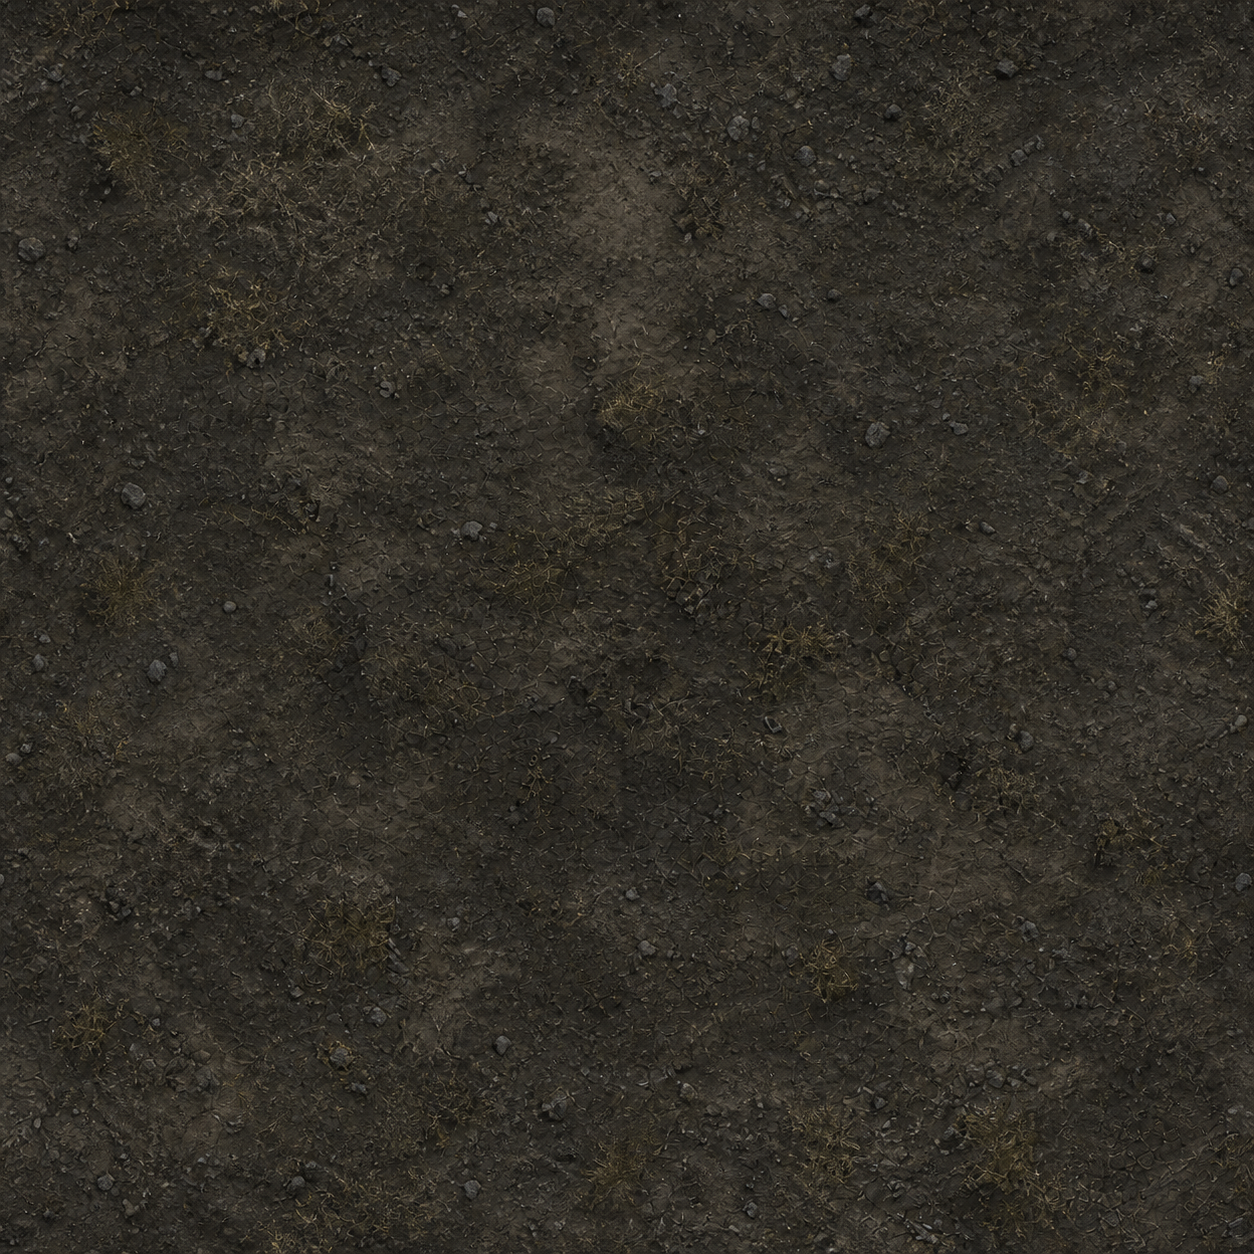
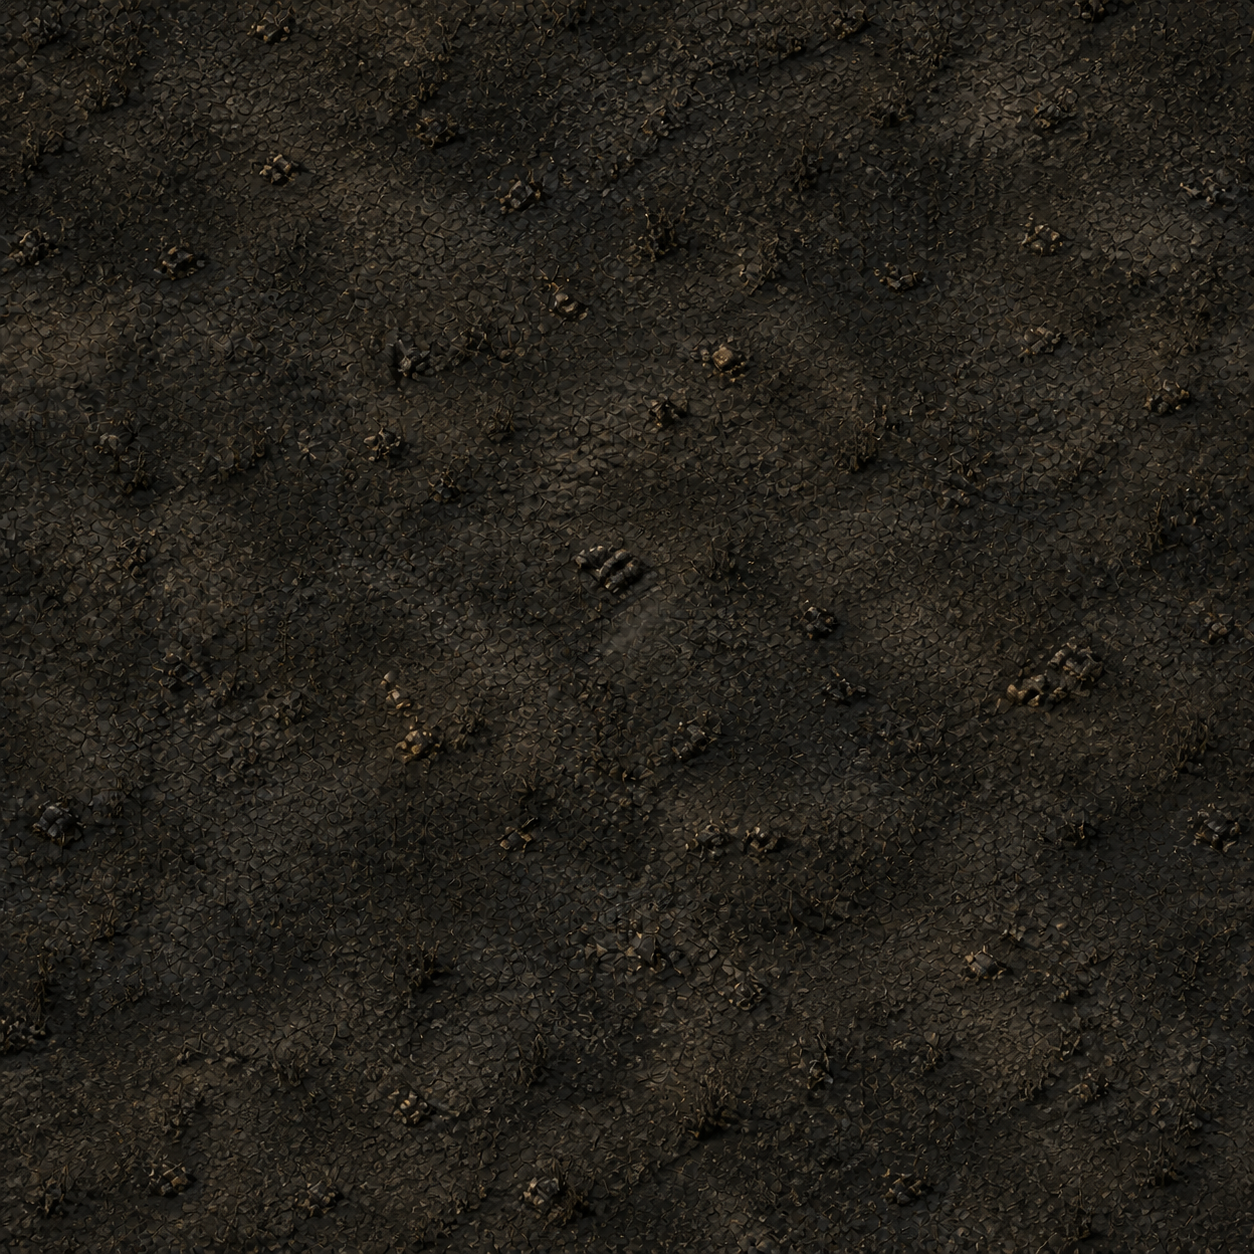
Align discrete map art with references

diff --git a/game/CommercialMapView.cs b/game/CommercialMapView.cs
@@ -177,6 +177,25 @@ internal sealed partial class CommercialMapView : Control
     public int IndividualArtAssetCount =>
         IndividualTileAssetCount + IndividualObjectAssetCount;
 
+    public string? CurrentDraftSpriteClassId
+    {
+        get
+        {
+            if (_presentation?.Snapshot.NodeDraft is NodeDraftSnapshot nodeDraft &&
+                DraftNodeSprite(nodeDraft.NodeClassId).Texture is not null)
+            {
+                return nodeDraft.NodeClassId;
+            }
+            if (_presentation?.Snapshot.LineDraft is LineDraftSnapshot lineDraft &&
+                lineDraft.IntermediatePoints.Count > 0 &&
+                DraftPoleSprite(lineDraft.PoleClassId).Texture is not null)
+            {
+                return lineDraft.PoleClassId;
+            }
+            return null;
+        }
+    }
+
     private int IndividualTileAssetCount =>
         new Texture2D?[]
         {
@@ -628,7 +647,7 @@ internal sealed partial class CommercialMapView : Control
                         GroundAsphaltTile,
                         cell.Grow(0.65f),
                         false,
-                        new Color(0.66f, 0.71f, 0.66f, 0.94f));
+                        new Color(0.94f, 0.92f, 0.86f, 1f));
                 }
                 Texture2D? variant = variants[((column * 7) + (row * 11)) % variants.Length];
                 if (variant is not null)
@@ -637,11 +656,11 @@ internal sealed partial class CommercialMapView : Control
                         variant,
                         cell.Grow(0.8f),
                         false,
-                        new Color(0.66f, 0.70f, 0.64f, 0.18f));
+                        new Color(0.88f, 0.84f, 0.74f, 0.34f));
                 }
             }
         }
-        DrawRect(mapRect, new Color(Land, 0.24f));
+        DrawRect(mapRect, new Color(Land, 0.07f));
         DrawRect(mapRect, Color.FromHtml("9a7b4f"), false, 2f);
     }
 
@@ -736,8 +755,8 @@ internal sealed partial class CommercialMapView : Control
                             Math.Max(1, texture.GetHeight() - 1)))
                     .ToArray();
                 Color textureModulate = area.Kind == TerrainKind.Water
-                    ? new Color(0.64f, 0.84f, 0.88f, 0.96f)
-                    : new Color(0.88f, 0.88f, 0.82f, 0.96f);
+                    ? new Color(0.82f, 0.92f, 0.94f, 0.98f)
+                    : new Color(1f, 0.96f, 0.88f, 0.98f);
                 if (area.Kind == TerrainKind.Building &&
                     area.Polygon.All(point =>
                         (point.XUnit == minX || point.XUnit == maxX) &&
@@ -970,6 +989,8 @@ internal sealed partial class CommercialMapView : Control
         foreach (CoreMapPoint point in draft.IntermediatePoints)
         {
             DrawFootprint(point, poleClass.FootprintRadiusUnit, Planned, 0.12f);
+            (Texture2D? texture, float maxSide) = DraftPoleSprite(draft.PoleClassId);
+            DrawDraftSprite(texture, point, maxSide);
             DrawCircle(ToCanvas(point), 4.5f, Planned);
         }
     }
@@ -1077,29 +1098,64 @@ internal sealed partial class CommercialMapView : Control
     {
         if (node.AuthoredFoundation)
         {
-            return (BridgeFoundationSprite, 64f);
+            return (BridgeFoundationSprite, 82f);
         }
         return nodeClass.Kind switch
         {
-            SpatialNodeKind.SourceTerminal => (SourcePlantSprite, 72f),
-            SpatialNodeKind.Substation => (SubstationSprite, 70f),
+            SpatialNodeKind.SourceTerminal => (SourcePlantSprite, 94f),
+            SpatialNodeKind.Substation => (SubstationSprite, 88f),
             SpatialNodeKind.Pole when node.ClassId == "STANDARD_POLE" =>
-                (StandardPoleSprite, 52f),
-            SpatialNodeKind.Pole => (ReinforcedPoleSprite, 58f),
+                (StandardPoleSprite, 70f),
+            SpatialNodeKind.Pole => (ReinforcedPoleSprite, 78f),
             SpatialNodeKind.DedicatedLoadTerminal when
                 node.NodeId == "EAST_RESIDENTIAL_TERMINAL" =>
-                (ResidentialFacilitySprite, 76f),
+                (ResidentialFacilitySprite, 96f),
             SpatialNodeKind.DedicatedLoadTerminal when
                 node.NodeId == "HOSPITAL_TERMINAL" =>
-                (HospitalFacilitySprite, 82f),
+                (HospitalFacilitySprite, 104f),
             SpatialNodeKind.DedicatedLoadTerminal when
                 node.NodeId == "WATER_TERMINAL" =>
-                (WaterFacilitySprite, 82f),
+                (WaterFacilitySprite, 104f),
             SpatialNodeKind.DedicatedLoadTerminal when
                 node.NodeId == "INDUSTRY_TERMINAL" =>
-                (IndustryFacilitySprite, 80f),
+                (IndustryFacilitySprite, 102f),
             _ => (null, 24f),
         };
+    }
+
+    private (Texture2D? Texture, float MaxSide) DraftPoleSprite(string poleClassId) =>
+        poleClassId switch
+        {
+            "STANDARD_POLE" => (StandardPoleSprite, 70f),
+            "REINFORCED_POLE" => (ReinforcedPoleSprite, 78f),
+            _ => (null, 24f),
+        };
+
+    private (Texture2D? Texture, float MaxSide) DraftNodeSprite(string nodeClassId) =>
+        nodeClassId switch
+        {
+            "SMALL_SUBSTATION" => (SubstationSprite, 88f),
+            _ => (null, 24f),
+        };
+
+    private void DrawDraftSprite(
+        Texture2D? texture,
+        CoreMapPoint point,
+        float maxSide)
+    {
+        if (texture is null)
+        {
+            return;
+        }
+        Vector2 center = ToCanvas(point);
+        Vector2 spriteSize = FitSpriteSize(texture, maxSide * (1f + (ZoomIndex * 0.16f)));
+        float objectRadius = Math.Max(6f, Math.Max(spriteSize.X, spriteSize.Y) * 0.42f);
+        DrawTextureRect(
+            texture,
+            new Rect2(center - (spriteSize / 2f), spriteSize),
+            false,
+            new Color(1f, 0.86f, 0.62f, 0.88f));
+        DrawArc(center, objectRadius, 0f, Mathf.Tau, 32, new Color(Planned, 0.9f), 2f, true);
     }
 
     private static Vector2 FitSpriteSize(Texture2D texture, float maxSide)
@@ -1174,6 +1230,8 @@ internal sealed partial class CommercialMapView : Control
             DrawServiceArea(draft.Position, nodeClass.ServiceRadiusUnit);
         }
         DrawFootprint(draft.Position, nodeClass.FootprintRadiusUnit, Planned, 0.16f);
+        (Texture2D? texture, float maxSide) = DraftNodeSprite(draft.NodeClassId);
+        DrawDraftSprite(texture, draft.Position, maxSide);
         DrawCircle(ToCanvas(draft.Position), 6f, Planned);
     }
 

diff --git a/game/CommercialMain.Smoke.cs b/game/CommercialMain.Smoke.cs
@@ -49,7 +49,8 @@ internal sealed partial class CommercialMain
 
             await BuildCampaignSmokeSubstation(
                 new CoreMapPoint(2200, 750),
-                "표현 확인 변전소");
+                "표현 확인 변전소",
+                Path.Combine(evidenceDirectory, "1920x1080-ui100-substation-draft.png"));
             await BuildCampaignSmokeLine(
                 "WEST_SOURCE",
                 "PLAYER_SUBSTATION_1",
@@ -59,7 +60,8 @@ internal sealed partial class CommercialMain
                     new CoreMapPoint(1545, 450),
                     new CoreMapPoint(1900, 600),
                 ],
-                "표현 확인 간선");
+                "표현 확인 간선",
+                Path.Combine(evidenceDirectory, "1920x1080-ui100-pole-draft.png"));
             await BuildCampaignSmokeLine(
                 "PLAYER_SUBSTATION_1",
                 "EAST_RESIDENTIAL_TERMINAL",
@@ -129,8 +131,9 @@ internal sealed partial class CommercialMain
                 "Save & Quit이 성공한 원자적 저장 뒤에만 제목으로 이동하지 않았습니다.");
             GD.Print(
                 "COMMERCIAL_STAGE_G_PRESENTATION_SMOKE_PASS " +
-                "screens=title-ui100|art-path-ui100|art-path-ui125 " +
-                "visual=discrete-tiles-7|discrete-objects-9|event-timeline " +
+                "screens=title-ui100|substation-draft-ui100|pole-draft-ui100|" +
+                "art-path-ui100|art-path-ui125 " +
+                "visual=discrete-tiles-7|discrete-objects-9|planned-class-sprites|event-timeline " +
                 "input=focus-keyboard reduce-motion=on " +
                 "save-and-quit=atomic resolution=1920x1080 " +
                 $"buildIdentity={CommercialCoreSaveCodec.ComputeSha256(_buildIdentityBytes)}");
@@ -939,7 +942,8 @@ internal sealed partial class CommercialMain
         string startNodeId,
         string endNodeId,
         IReadOnlyList<CoreMapPoint> intermediatePoints,
-        string label)
+        string label,
+        string? draftEvidencePath = null)
     {
         await PressPanelAsync(CommercialPanelAction.StartLine, $"{label} 선로 도구");
         await NextFrame();
@@ -951,6 +955,13 @@ internal sealed partial class CommercialMain
         foreach (CoreMapPoint point in intermediatePoints)
         {
             await ClickMap(point);
+            Require(
+                _map.CurrentDraftSpriteClassId == _snapshot.LineDraft?.PoleClassId,
+                $"{label}의 건설 중 전주가 선택한 node class 스프라이트를 표시하지 않았습니다.");
+        }
+        if (draftEvidencePath is not null)
+        {
+            SaveEvidencePng(draftEvidencePath);
         }
         await SelectAndClickCandidate(end.Position, endNodeId);
         Require(
@@ -962,14 +973,22 @@ internal sealed partial class CommercialMain
         await NextFrame();
     }
 
-    private async Task BuildCampaignSmokeSubstation(CoreMapPoint position, string label)
+    private async Task BuildCampaignSmokeSubstation(
+        CoreMapPoint position,
+        string label,
+        string? draftEvidencePath = null)
     {
         await PressPanelAsync(CommercialPanelAction.PlaceSubstation, $"{label} 도구");
         await NextFrame();
         await ClickMap(position);
         Require(
-            _snapshot.NodeDraft?.Position == position,
+            _snapshot.NodeDraft?.Position == position &&
+            _map.CurrentDraftSpriteClassId == _snapshot.NodeDraft.NodeClassId,
             $"{label} 위치를 계획하지 못했습니다: {_lastError}");
+        if (draftEvidencePath is not null)
+        {
+            SaveEvidencePng(draftEvidencePath);
+        }
         await PressPanelAsync(CommercialPanelAction.Commission, $"{label} 공사 발주");
         await NextFrame();
         await PressPanelAsync(CommercialPanelAction.Commission, $"{label} 공사 완공");

diff --git a/tools/Gridworks.CommercialChecks/Program.cs b/tools/Gridworks.CommercialChecks/Program.cs
@@ -242,6 +242,10 @@ internal sealed class CommercialChecks
                      "WATER_TERMINAL",
                      "INDUSTRY_TERMINAL",
                      "STANDARD_POLE",
+                     "DraftPoleSprite",
+                     "DraftNodeSprite",
+                     "DrawDraftSprite",
+                     "CurrentDraftSpriteClassId",
                      "AuthoredFoundation",
                      "GroundTileWorldUnit = 400",
                  })

diff --git a/game/art/commercial/commercial-map-assets-v1.prompts.md b/game/art/commercial/commercial-map-assets-v1.prompts.md
@@ -4,8 +4,9 @@
 - 생성 도구: OpenAI built-in ImageGen
 - 사용 방식: 새 tile/object 생성 후 object별 background-extraction edit. atlas나 whole-map 합성은 사용하지 않음.
 - style reference: `assets/01-grid-construction.png`, `assets/02-heatwave-outage.png`,
-  `assets/03-route-comparison.png`, `assets/04-plant-siting.png`의 낮은 사선 시점, 낡은 산업 재료,
-  청록 통전색과 황동 작업등만 참고. 원본 이미지는 runtime에 포함하지 않음.
+  `assets/03-route-comparison.png`, `assets/04-plant-siting.png`를 모든 생성 호출에 직접 넣고 낮은 3/4
+  사선 시점, 약 30도 하향 orthographic camera, 흑연·그을린 철·낡은 콘크리트, 촘촘한 산업 디테일,
+  제한된 황동 작업등을 최대한 가깝게 고정했다. 원본 이미지는 runtime에 포함하지 않음.
 - 공통 금지요소: UI, 문구, 숫자, logo, 완성 지도, 전력선, gameplay 상태, 사람, 차량, 흰색/검은색
   matte. object는 실제 transparent alpha, tile은 semantic object와 보이는 격자선을 금지.
 
@@ -19,13 +20,13 @@
 
 | runtime 파일 | SHA-256 |
 |---|---|
[14 lines of base64/hex data omitted]
 
 ## Object prompts
 
@@ -35,20 +36,23 @@
 접속 설비, 일반 목주, 보강 철주, 교량 보호기초, 소형 배전 변전소, 주거 묶음, 의료원, 정수장,
 산업시설이다. background-extraction prompt는 원 오브젝트의 geometry·색·조명·비율은 보존하고 baked
 checkerboard와 모든 배경 픽셀만 제거하도록 고정했다. 정수장은 배경분리가 두 번 실패해 폐기하고 같은
-종류를 transparent-alpha 조건으로 새로 생성했다.
+종류를 transparent-alpha 조건으로 새로 생성했다. reference 정렬 재생성에서도 baked checkerboard를
+그대로 채택하지 않고 각 object를 다시 background-extraction했으며, 정수장과 의료원은 실패 결과를
+폐기하고 RGBA 후보가 나올 때까지 별도 재시도했다.
 
 | runtime 파일 | SHA-256 |
 |---|---|
[18 lines of base64/hex data omitted]
 
 object 최종 검수는 PNG color type RGBA, 네 모서리 alpha 0/1 이하, 완전 투명 pixel 비율 35% 이상을
-요구한다. 실제 결과는 43.3%~81.3%이며 `commercial-map-discrete-art-contract`가 같은 조건과 위 hash,
-scene binding, whole-map plate 부재를 반복 검사한다.
+요구한다. reference 정렬 재생성 9종은 모두 이 조건을 통과했으며
+`commercial-map-discrete-art-contract`가 같은 조건과 위 hash, scene binding, whole-map plate 부재를
+반복 검사한다.

diff --git a/ASSET_MANIFEST.md b/ASSET_MANIFEST.md
@@ -4,8 +4,8 @@
 
 | 자산 | 형태와 출처 | 권리·라이선스 경계 |
 |---|---|---|
-| 청류시 지형 tile 7종 | `game/art/commercial/tiles/`의 지면 4종·강·주거 block·의료원 block PNG. 네 concept은 style reference로만 사용했고 각 파일의 prompt·SHA-256은 [`commercial-map-assets-v1.prompts.md`](game/art/commercial/commercial-map-assets-v1.prompts.md)에 고정 | OpenAI built-in ImageGen의 Gridworks 프로젝트용 생성 출력. 공개 라이선스 없음. 내부 후보에만 포함 |
-| 망 설비·시설 object 9종 | `game/art/commercial/objects/`의 발전 접속 설비·일반/보강 전신주·교량 기초·변전소·주거/의료/정수/산업 transparent PNG. 파일별 prompt·SHA-256과 alpha 검수는 같은 [생성 기록](game/art/commercial/commercial-map-assets-v1.prompts.md)에 고정 | OpenAI built-in ImageGen의 Gridworks 프로젝트용 생성 출력. 공개 라이선스 없음. 내부 후보에만 포함 |
+| 청류시 지형 tile 7종 | `game/art/commercial/tiles/`의 지면 4종·강·주거 block·의료원 block PNG. 네 concept을 모든 생성 호출의 직접 style/camera/material reference로 사용해 낮은 3/4 사선·흑철·황동 산업도시 언어를 맞췄고, 각 파일 prompt·SHA-256은 [`commercial-map-assets-v1.prompts.md`](game/art/commercial/commercial-map-assets-v1.prompts.md)에 고정 | OpenAI built-in ImageGen의 Gridworks 프로젝트용 생성 출력. 공개 라이선스 없음. 내부 후보에만 포함 |
+| 망 설비·시설 object 9종 | `game/art/commercial/objects/`의 발전 접속 설비·일반/보강 격자 철탑·교량 기초·변전소·주거/의료/정수/산업 transparent PNG. 같은 reference angle로 각 object를 별도 생성·background-extraction했고 파일별 prompt·SHA-256과 실제 alpha 검수는 같은 [생성 기록](game/art/commercial/commercial-map-assets-v1.prompts.md)에 고정 | OpenAI built-in ImageGen의 Gridworks 프로젝트용 생성 출력. 공개 라이선스 없음. 내부 후보에만 포함 |
 | 실제 망·상태 pattern·사건 timeline·네 고정 인물 초상 | `CommercialMapView.cs`, `CommercialEventTimeline.cs`, `CommercialPortrait.cs`가 v2 좌표와 typed state에서 그리는 저장소 자체 code-native 2D 표현 | Gridworks 자체 저작물. 공개 라이선스 없음. 내부 후보에만 포함 |
 | 도시 환경음·날씨 layer·발주·완공·통전·차단·경고·결과 cue·두 motif | `ReleaseAudio.cs`가 실행 중 생성하는 결정적 mono PCM16 파형. 외부 음원 sample 없음 | Gridworks 자체 저작물. 공개 라이선스 없음. 내부 후보에만 포함 |
 | app icon | `game/icon.svg`, 저장소 자체 vector | Gridworks 자체 저작물. 공개 라이선스 없음. 내부 후보에만 포함 |

diff --git a/playtests/commercial-2d/LAYOUT_EVIDENCE.md b/playtests/commercial-2d/LAYOUT_EVIDENCE.md
@@ -16,8 +16,9 @@
 
 ![1920×1080 UI 100% 개별 art와 선택 경로](layout-evidence/1920x1080-ui100-discrete-art-path.png)
 
-- 지면은 400 내부단위 셀마다 asphalt 기반 PNG를 실제로 반복하고 scrub·concrete·gravel PNG를 낮은
-  농도의 개별 변형층으로 적용한다. 셀 경계선이나 gameplay 격자를 그리지 않는다.
+- 지면은 400 내부단위 셀마다 asphalt 기반 PNG를 실제로 반복하고 scrub·concrete·gravel PNG를 개별
+  변형층으로 적용한다. 네 reference를 모든 생성 호출에 직접 넣어 같은 3/4 사선 표면, 흑연·그을린
+  철·낡은 콘크리트와 작은 황동 마모를 사용하며 셀 경계선이나 gameplay 격자를 그리지 않는다.
 - 강 texture는 `CHEONGRYU_RIVER` polygon, 조밀한 주거 texture는 `EAST_RESIDENTIAL_BLOCK`, 공공시설
   texture는 `HOSPITAL_BLOCK` 안에만 있다. 동부 생활권과 의료원 block의 다른 지붕 구성이 화면에서도
   구분된다.
@@ -26,6 +27,19 @@
   예약 시설은 같은 sprite에 낮은 alpha·회색 ring·`예정` 문구를 함께 쓴다.
 - 전체 map plate 파일과 `CityPlate` 경로는 source·scene에서 제거됐다. 화면의 선로, 서비스 권역,
   선택·공급·예정 상태와 사건 timeline은 여전히 v2 typed state에서 갱신된다.
+
+## 1920×1080 · UI 100% · 실제 건설 중 class sprite
+
+![1920×1080 UI 100% 변전소 계획 sprite](layout-evidence/1920x1080-ui100-substation-draft.png)
+
+![1920×1080 UI 100% 전주 계획 sprite](layout-evidence/1920x1080-ui100-pole-draft.png)
+
+- 변전소 위치를 실제 map click으로 정한 뒤 완공 전에 `SMALL_SUBSTATION` sprite와 호박색 계획 tint를
+  함께 캡처했다. 서비스 반경·footprint·클릭 표식은 같은 typed draft에서 그린다.
+- 선로 시작점과 네 중간점을 실제 입력으로 정한 뒤 완공 전에 선택된 `STANDARD_POLE` class의 격자
+  철탑 sprite가 모든 intermediate point에 붙었음을 캡처했다. 보강 class는 별도 더 큰 철탑 PNG를
+  선택한다. smoke는 화면 저장뿐 아니라 renderer가 보고한 draft class와 Core draft class의 일치도
+  각 입력 직후 검사한다.
 
 ## 1920×1080 · UI 125% · 선택 경로와 ReduceMotion
 
@@ -47,5 +61,5 @@
 - 같은 입력 흐름의 Save & Quit은 campaign과 settings temp 파일이 없는 성공 뒤에만 제목으로
   이동했다.
 
-세 화면은 native OpenGL/Metal process에서 저장했다. 최소 지원·검수 해상도는 1920×1080뿐이며
+다섯 화면은 native OpenGL/Metal process에서 저장했다. 최소 지원·검수 해상도는 1920×1080뿐이며
 1280×720 모드나 증거는 이 후보에 만들지 않았다.

diff --git a/CREDITS.md b/CREDITS.md
@@ -5,9 +5,11 @@
 게임 설계, C# 코드, 한국어 문구, code-native 2D 표현과 app icon은 Gridworks 저장소의 작업물이다.
 runtime의 ambient와 상태 cue는 저장된 외부 음원 없이 코드가 고정된 PCM16 파형으로 생성한다.
 
-청류시 runtime 지형 tile 7종과 망 설비·시설 object 9종은 `assets/`의 네 이미지를 style·mood
-reference로 삼아 OpenAI built-in ImageGen으로 각각 생성했다. whole-map 배경판이나 atlas로 합치지
-않으며, object는 실제 transparent PNG로 분리했다. 원본 concept 자체, UI·문구·전력망 상태는 생성
+청류시 runtime 지형 tile 7종과 망 설비·시설 object 9종은 `assets/`의 네 이미지를 각 생성 호출의
+style·camera·material reference로 직접 사용해 OpenAI built-in ImageGen으로 각각 생성했다. 낮은 3/4
+사선 시점과 흑철·낡은 콘크리트·황동 조명 언어를 공유하지만 whole-map 배경판이나 atlas로 합치지
+않으며, object는 background-extraction을 거친 실제 transparent PNG로 분리했다. 원본 concept 자체,
+UI·문구·전력망 상태는 생성
 파일에 포함하지 않는다. 현재 제품 빌드에는 `assets/`의 콘셉트 원본, 외부 raster sprite, 외부 font,
 음악과 voice-over를 포함하지 않는다.
 
